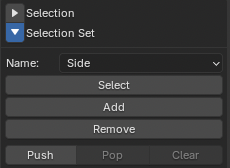
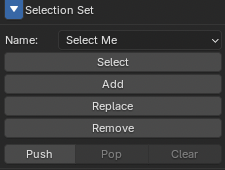
Update for v1.3

diff --git a/yt-tools/index.md b/yt-tools/index.md
@@ -67,7 +67,7 @@ This is the same as Blender's standard loop selection with Alt + LMB, but it reg
 
 
 ## Selection Set
-Selection Set is a function that saves the selection state of vert, edge, and face to a mesh with a name. This information is saved as custom data for the mesh. It is saved in the Blender scene file, so it is retained even if you reopen the saved scene. Add adds the currently selected mesh elements to the Selection Set. Selection Sets are saved separately for verts, edges, and faces. Remove deletes the currently displayed Selection Set. Enabling Remove All deletes all Selection Sets saved for the current Edit mode. Select selects the elements saved in the currently displayed Selection Set.<br><br>
+Selection Set is a function that saves the selection state of vert, edge, and face to a mesh with a name. This information is saved as custom data for the mesh. It is saved in the Blender scene file, so it is retained even if you reopen the saved scene. Add adds the currently selected mesh elements to the Selection Set. Selection Sets are saved separately for verts, edges, and faces. Remove deletes the currently displayed Selection Set. Enabling Remove All deletes all Selection Sets saved for the current Edit mode. Select selects the elements saved in the currently displayed Selection Set.<b>Replace</b> overwrites the currently displayed <b>Selection Set</b> with the current selection.<br><br>
 Push, Pop, and Clear are functions that temporarily save the state of the currently selected elements and recall the selection state when necessary. Basically, they use the same mechanism as Selection Set, but you can push and pop the selection state like a clipboard without explicitly saving it with a name. This selection state is also saved as custom data, so we recommend pressing the Clear button to delete the selection data when it is no longer necessary.
 <div align="left">
 <img src="images/SelectionSet.png" style='max-height: 200px; object-fit: contain'/>
@@ -82,6 +82,7 @@ Enable Symmetric_Cut to set the slice position symmetrically within the loop. En
 Cut Positions by Spans is a mode in which you directly specify the number and spacing of slices in the ratio of each span. For example, entering "1 3 1" will divide the polygon loop into thirds in a 1:3:1 ratio. Enter each span separated by a space character. Spans are normalized by dividing by their total number, so you can enter numbers of any scale. If a span is entered in this field, it will overwrite the divisions and Symmetic Cut.
 
 <div align="left">
+<img src="images/loopSlice1.png"/>
 <img src="images/loopSlice2.png"/>
 </div>
 
@@ -238,15 +239,26 @@ Enabling <b>Show Axis</b> displays axis handles at the Start and End positions o
 <b>Auto Fit</b> moves the spine handle to fit the selected mesh element in the specified direction. <b>Orient:</b> specifies the direction in which the spine handle fits. X, Y, and Z move the handle along each of the major axes. <b>Oriented Bounding Box</b> calculates an oriented bounding box and fits the handle along that axis. Enabling <b>Spine Only</b> does not move the spine's center position, but only changes the length of the spine vector to fit the calculated bounding box. <br>
 
 ### <ins>Soft Drag</ins><br>
-<b>Soft Drag</b> is a transformation tool that smoothly moves the coordinate values of vertices within the radius specified by Size, centered on the point you click on the screen. <b>Size</b> is the radius of the falloff circle on the screen, which you can change interactively by holding down the Shift key and dragging the LMB. Clicking and dragging the LMB at the desired location will move vertices within the falloff circle. <br>
+<b>Soft Drag</b> is a transformation tool that smoothly moves the coordinate values of vertices within the radius specified by Size, centered on the point you click on the screen. <b>Size</b> is the radius of the falloff circle on the screen, which you can change interactively by dragging the RMB. Clicking and dragging the LMB at the desired location will move vertices within the falloff circle. Holding down the Shift key and dragging with the LMB will smooth the vertex coordinates within the falloff, which is the same process as the smooth brush. <br>
 <b>Occlusion Test</b> tests whether the target vertex is hidden behind other polygons; hidden vertices will not be moved. <br>
+<b>Smooth Strength</b> sets the strength of the smoothing performed by the smooth brush. <br>
 <b>Symmetry</b> transforms selected elements symmetrically along a specified axis of symmetry. <br>
-* LMB + Shift drag: Changes the size of the falloff circle. <br>
+* RMB: Changes the size of the falloff circle. <br>
+* LMB + Shift drag: Smooth Brush. <br>
 * LMB + Alt drag: No changes are made until you release the mouse button. This is useful for quickly aligning handle operations on large meshes. <br>
-* ESC, Spacebar, or RMB click: Exit the tool. <br>
+* ESC, Spacebar: Exit the tool. <br>
 <div align="left">
 <img src="images/SoftDrag.gif">
 </div>
+
+### <ins>Smooth Brush</ins><br>
+<b>Smooth Brush</b> is a transform tool that smooths the coordinate values of vertices within a radius around the cursor with a brushing action. <b>Size</b> is the radius of the on-screen falloff circle, which can be interactively changed by dragging the RMB. Dragging the LMB around the vertices you want to smooth will smooth vertices within the falloff circle. <br>
+<b>Occlusion Test</b> tests whether the target vertex is hidden behind other polygons; hidden vertices will not be moved. <br>
+<b>Smooth Strength</b> sets the strength of the smoothing performed by the smooth brush. <br>
+<b>Symmetry</b> transforms selected elements symmetrically along a specified axis of symmetry. <br>
+* RMB drag: Changes the size of the falloff circle. <br>
+* LMB + Alt drag: No changes are made until you release the mouse button. This is useful for quickly aligning handle operations on heavy meshes.<br>
+* ESC key, Spacebar key: Exit the tool.<br>
 
 ### <ins>Set Vertex Positions</ins><br>
 <b>Set Vertex Positions</b> sets the coordinate values of the selected vertices to the specified values. <b>Axis</b> specifies the component of the coordinate value to be set; only the coordinate components of the enabled axes are updated. <b>Position</b> specifies the coordinate value to be set; the coordinate value of the active vertex is set as the default. If there is no active vertex, the center value of the selected vertex coordinates is set. <b>Space</b> specifies whether the coordinate values are set in local mesh coordinates or global object coordinates. <b>Mode</b> specifies whether the specified Position value replaces the existing vertex value (SET) or is added (ADD). <br>
@@ -276,7 +288,7 @@ Displays the scale of the Grid set in the Viewport Overlays panel.
 </div>
 You can change the font size used for this display information in the YT-Tools tab of the Preferences panel. This information is saved as the initial setting, so it is permanently used as a common setting for the scene file.
 <div align="left">
-<img src="images/preferences.png"/>
+<img src="images/addon.png"/>
 </div>
 
 ## Dimension Tool
@@ -310,8 +322,8 @@ Pivot moves the 3D Cursor position to the active object's position and sets the 
 ### Pivot Center Parent Axis<br>
 Pivot moves the 3D Cursor position to the position of the active object and sets the Pivot Point to Cursor. Set Orientation to Parent.
 
-## Pick Mesh Element
-Pick Mesh Element sets the position of the hit element on the mesh by clicking the mouse on the Mesh object to Active Element, 3D Cursor, or Object Origin. Once Pick Mesh Elements is executed, mouse clicks are processed as hit test events until the tool is released. If you want to continue operations such as transform tools, you must release Pick Mesh Elements once. You can release the tool by pressing the ESCAPE key, right-clicking the mouse, or pressing the Pick Mesh Elements button.
+## Pick Active Element
+Pick Active Element sets the position of the hit element on the mesh by clicking the mouse on the Mesh object to Active Element, 3D Cursor, or Object Origin. Once Pick Mesh Elements is executed, mouse clicks are processed as hit test events until the tool is released. If you want to continue operations such as transform tools, you must release Pick Active Elements once. You can release the tool by pressing the ESCAPE key, right-clicking the mouse, or pressing the Pick Mesh Elements button.
 <div align="left">
 <img src="images/HitMeshElement.gif"/>
 </div>
@@ -337,7 +349,8 @@ Sets the origin position (0,0,0) to Origin.
 ## Workplane
 The workplane function moves the selected element to the center of the view in Edit mode and temporarily sets the normal vector of the selection to the Z-axis direction of the view, making modeling in the planar view easier. This function sets the calculated transform to convert the selection to the center of the planar view based on the selected element to an empty object created with the name "_Workplane", and parent the mesh object to be edited to this "_Workplane" object. Pressing Unset will delete this "_Workplane" object and return the parented object to its original state. This allows you to temporarily edit the mesh by setting the plane on which the mesh element you want to edit is located to the Top view.<br>
 In addition, when you set the workplane in Object mode, a transform matrix that returns the transform of the currently selected object to the origin is set to the "_Workplane" object, and all mesh objects are parented to "_Workplane". This allows you to temporarily operate the active object at the center of the world coordinates.<br>
-<b>Set Transform Orientations</b> sets the construction plane rotation matrix to a named custom Transform Orientation. This is useful if you want to manipulate transformations in the perspective view rather than the planar view.
+<b>Set to Transform Orientations</b> sets the construction plane rotation matrix to a named custom Transform Orientation. This is useful if you want to manipulate transformations in the perspective view rather than the planar view.<br>
+<b>Set to 3D Cursor and Rotation</b> sets the rotation matrix of the work plane to the name Cursor in Transform Orientations and the position coordinates to the 3D Cursor in Transform Pivot Position.
 <div align="left">
 <img src="images/Workplane.gif"/>
 </div>
@@ -443,6 +456,7 @@ Reverses the order of Edit Mode switching by the space key.
 |---------|------------------|
 | Select | mesh.yt_selection_set_select |
 | Add | mesh.yt_selection_set_select |
+| Replace | mesh.yt_selection_set_replace |
 | Remove | mesh.yt_selection_set_remove |
 | Push | mesh.yt_selection_clipboard_push |
 | Pop | mesh.yt_selection_clipboard_pop |
@@ -468,13 +482,11 @@ Reverses the order of Edit Mode switching by the space key.
 
 | Name | Operator |
 |---------|------------------|
-| Pick Mesh Element | view3d.yt_hit_mesh_element |
+| Pick Active Element | view3d.yt_hit_mesh_element |
 | 3D Cursor | view3d.yt_origin_to_cursor |
 | Selection Center | view3d.yt_origin_to_selection |
 | Selection Border Center | view3d.yt_origin_to_selection_border |
 | Origin | view3d.yt_origin_to_origin |
-| Workplane Set | view3d.yt_workplane_set |
-| Workplane Unset | view3d.yt_workplane_unset |
 
 
 ### Mesh Editting
@@ -504,6 +516,7 @@ Reverses the order of Edit Mode switching by the space key.
 | Radial Transform | mesh.yt_transform_radial |
 | Bend Transform | mesh.yt_transform_bend |
 | Soft Drag | mesh.yt_transform_softdrag |
+| Smooth Brush | mesh.yt_sculpt_smooth |
 | Set Vertex Positions | mesh.yt_vert_position_set |
 | Center Vertex Positions | mesh.yt_vert_position_center |
 
@@ -515,6 +528,7 @@ Reverses the order of Edit Mode switching by the space key.
 | Set Workplane | view3d.yt_workplane_set |
 | Unset Workplane | view3d.yt_workplane_unset |
 | Set Transform Orientations | view3d.yt_workplane_to_orientations |
+| Set to 3D Cursor and Rotation | view3d.yt_workplane_to_3dcursor |
 
 
 ### Viewport Display
@@ -524,3 +538,43 @@ Reverses the order of Edit Mode switching by the space key.
 | Set Attributes | mesh.yt_viewport_display |
 | Display Info | mesh.yt_viewport_text |
 | Dimension | mesh.yt_dimension |
+
+
+## History
+### v1.0.1 Bug Fix
+- Fixed bugs about Add Loop
+- Fixed bugs about Contextual Edge Selection
+- Renamed Select Rotate Mode to Cycle Selection Mode
+### v1.1 New Features
+- Bend Transform operator
+- Set Vertex Positions
+- Center Vertex Positions
+- Added Invert option to Radial Transform
+### v1.1.1 Bug Fix
+- Fixed a bug about Linear Weight
+- Fixed a handle operation with Shift-LMB in Bend tool
+- Added View Navigation option to preference panel.
+### v1.2 New Features
+- Soft Drag Operator
+- Radial Weight Operator
+- Added options to set Pivot Point and Orientation separately in Action Center
+- Added Set Transform Orientation in WorkPlane
+### v1.2.1 Bug Fix
+- Fixed a bug about Edge Slice
+- Fixed a bug about Pick Mesh Element
+- Fixed a bug about Soft Drag
+- Cache display info text and disabled Display Info by default
+### v1.3 New Features
+- Added Smooth Brush operator
+- Added Smooth Brush operation to Soft Drag (Shift-LMB)
+- Added Set to 3D Cursor and Rotation to the WorkPlane
+- Added Replace button to Selection Sets
+- Automatically detects view navigation operations and removes the Navigation selection option from the Preferences
+
+## License
+
+This Blender add-on is licensed under the GNU General Public License v3.0 or later.
+
+You are free to use, modify, and redistribute it under the terms of the GPL license.
+For details, please see the included `LICENSE.txt`.
+

diff --git a/yt-tools/release_1_3.md b/yt-tools/release_1_3.md
@@ -1,0 +1,35 @@
+---
+# Feel free to add content and custom Front Matter to this file.
+# To modify the layout, see https://jekyllrb.com/docs/themes/#overriding-theme-defaults
+
+layout: default
+permalink: /yt-tools/release_1_3.html
+---
+# YT-Tools for Blender v1.3 Release Note
+
+## ✨ New Features Overview
+
+### 🔹 Smooth Brush
+<b>Smooth Brush</b> is a transform tool that smooths the coordinate values of vertices within a radius around the cursor with a brushing action. <b>Size</b> is the radius of the on-screen falloff circle, which can be interactively changed by dragging the RMB. Dragging the LMB around the vertices you want to smooth will smooth vertices within the falloff circle. <br><br>
+<div align="left">
+<img src="images/SmoothBrash.gif">
+</div>
+
+### 🔹 Soft Drag Update
+<b>Smooth Brush</b> can be used on <b>Soft Drag</b> operator. Shift key and dragging with the LMB will smooth the vertex coordinates within the falloff, which is the same process as the smooth brush. <br>
+
+### 🔹 Workplane Update
+<b>Set to 3D Cursor and Rotation</b> sets the rotation matrix of the work plane to the name Cursor in Transform Orientations and the position coordinates to the 3D Cursor in Transform Pivot Position.
+
+### 🔹 Selection Set Update
+<b>Replace</b> overwrites the currently displayed <b>Selection Set</b> with the current selection.
+
+### 🔹 Preferences Update
+<b>View Navigation</b> has been removed from Preferences panel. Now the view navigation events are automatically recognized in YT-Tools.
+
+### 🔹 Other Changes
+- Fixed a bug about display info text after loading a scene.
+- Fixed an issue so that Randomize Transform does not work with YT-Tools
+- Fixed Add Loop and Loop Slice to show Adjust Last Operation panel.
+- Set the initial symmetric state to Merge and Loop Slice 
+- Automatically detects view navigation operations and removes the Navigation selection option from the Preferences

diff --git a/index.md b/index.md
@@ -17,7 +17,8 @@ Hello I'm Taz, a software engineer specializing in modeling tools for 3D compute
 - <a href="https://forms.gle/3XkJnZyQFghUkScw8">Feedback Form</a>
 - Release Note :<br>
     <a href="/yt-tools/release_1_1.html">v1.1</a><br>
-    <a href="/yt-tools/release_1_2.html">v1.2</a>
+    <a href="/yt-tools/release_1_2.html">v1.2</a><br>
+    <a href="/yt-tools/release_1_3.html">v1.3</a>
 
 <b>Modo Open Source Plug-ins : </b><br>
 - <a href="{{ site.githuburl }}/">https://github.com/tazee</a>
